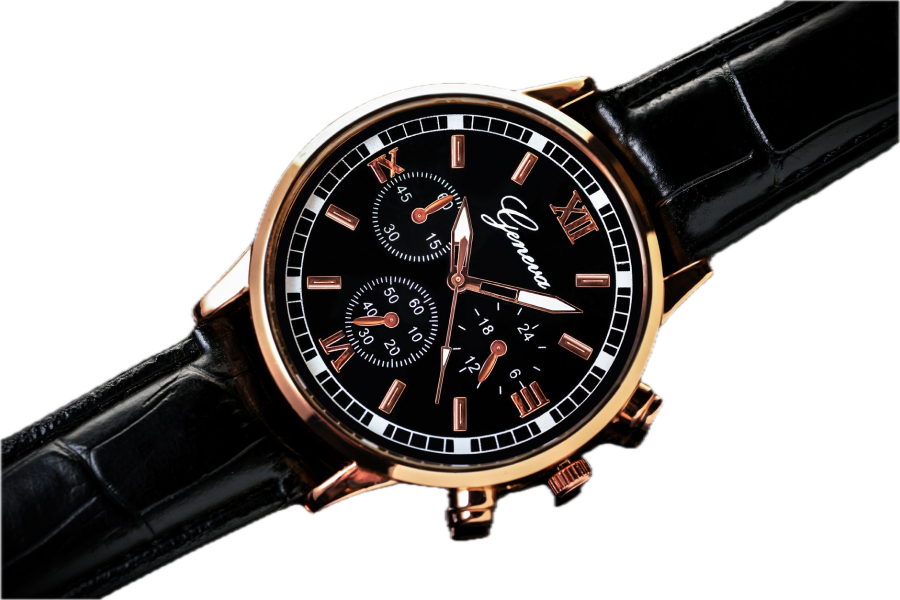
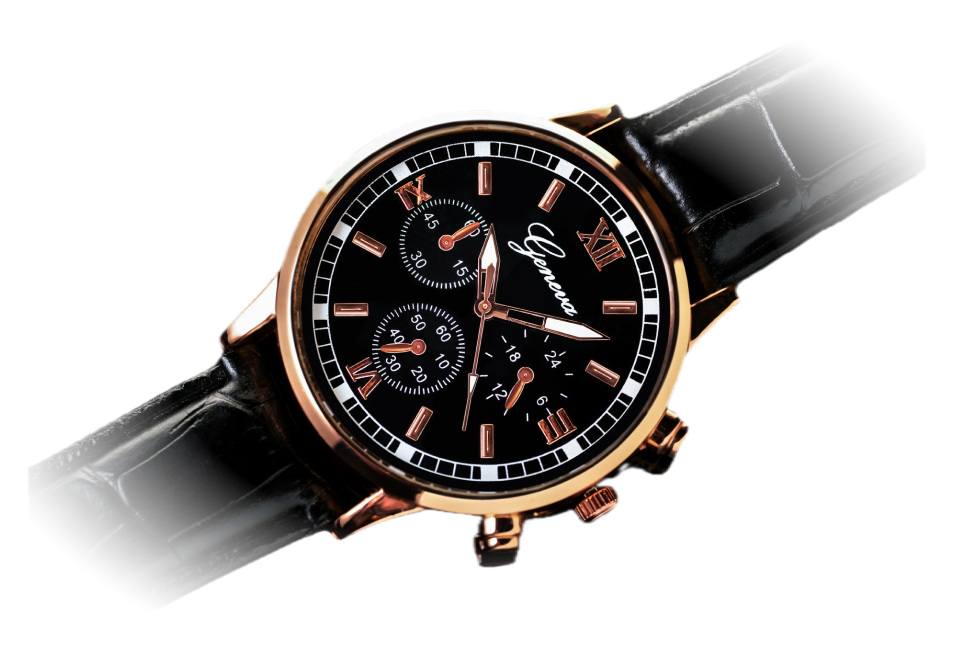
Refactor code structure for improved readability and maintainability

diff --git a/docs/DATA.md b/docs/DATA.md
@@ -114,5 +114,5 @@ Brand names (Rolex, Citizen, Bulova, Michael Kors, Seiko) are retailers' stock l
 - **Prices are in Nigerian naira (₦).** They were converted from USD at ₦1,550 = $1, rounded to the nearest ₦10,000 from ₦1,000,000 up and to the nearest ₦1,000 below that.
 - **All stores are in Lagos:** Lagos Island (flagship), Lekki and Ikeja (14 Allen Avenue).
 - **New Women line-up** (`women`) with 6 ladies' watches.
-- **Home hero carousel:** `home.json → hero.carousel` holds 6 slides. Each slide's watch is a 3:2 photo on a dark background in `images/photos/hero/` (at least 1200×800, never enlarged), and its button ("View details") opens the watch popup.
+- **Home hero carousel:** `home.json → hero.carousel` holds 6 slides. Each slide's watch is a transparent PNG cut-out in `images/photos/hero/` (cut from large photos, never enlarged), and its button ("View details") opens the watch popup.
 - `women-on-wrist.jpg`, `women-rose-gold.jpg` and `women-bracelet.jpg` are temporary copies of other photos. Replace them with the Figma women photos (same file names).
